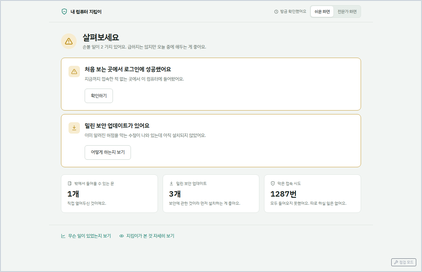
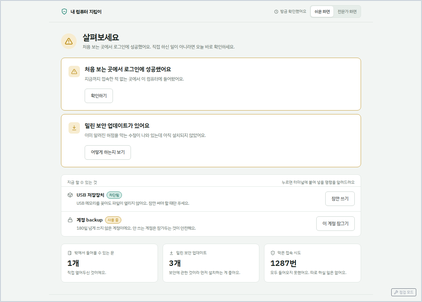
feat(ui): 홈에 '지금 할 수 있는 것' — USB 차단 해제와 계정 잠금을 한 걸음으로
USB 저장장치 해제·재차단과 계정 잠금·되살리기는 전문가 화면에서는 한눈에 보이는데,
쉬운 화면에서는 홈 → 자세히 보기 → 항목 펼치기, 세 걸음을 지나야 나왔다. 자주 쓸 수 있는
조작인데 경로가 가장 길었다. 배치 세 가지를 목업으로 비교해 A안(홈 아래 한 묶음)으로 정했다.

- QuickActions: 상태 + 무엇이 바뀌는지 한 줄 + 조치 버튼. 누르면 터미널에 붙여 넣을 명령과
  왜 그런지를 보여주고 복사한다. 자동 복사가 막히면 직접 끌어 복사하도록 글을 남긴다
- 버튼은 실행하지 않는다. root 권한이 필요하고 지킴이에게는 그 권한이 없다 — 묶음 제목 옆에
  "누르면 터미널에 붙여 넣을 명령을 알려드려요"로 그 사실을 적는다 (원칙 2)
- 줄은 최대 셋. 상태를 못 읽었거나 기준 시각을 모르면 그 줄을 빼고, 빈 줄을 만들지 않는다
- '180일 넘게 안 쓴 계정' 기준은 전문가 화면 계정 패널과 같다. 판정 기준 시각은 화면을 받은
  시각이다 — 그리는 중에 시계를 읽지 않는다(react-hooks/purity)
- plan.md §7 의 "명령어 복사는 홈에서 쓰지 않는다"를 이 결정으로 갱신하고 조건을 적는다
- README 화면 구성에 줄 추가, 갤러리 홈 스크린샷 갱신

Claude-Session: https://claude.ai/code/session_01UZNzB412ewKs2Bica7ortn

diff --git a/frontend/src/plain/QuickActions.jsx b/frontend/src/plain/QuickActions.jsx
@@ -1,0 +1,188 @@
+// 홈에서 바로 할 수 있는 조치. 전문가 화면에만 있던 USB 차단 해제와 계정 잠금을 여기로 올린다.
+//
+// 왜 홈에 두는가: 자세히 보기 → 항목 펼치기를 지나야 나왔다. 자주 쓸 수 있는 조작인데 경로가
+// 가장 길었다 (목업 비교에서 세 걸음 → 한 걸음).
+//
+// 왜 버튼이 바로 실행하지 않는가: 이 조작들은 root 권한이 필요하고, 지킴이는 그 권한을 갖고
+// 있지 않다. 그래서 하는 일은 '터미널에 붙여 넣을 명령을 알려주는 것'뿐이다. 버튼 이름과
+// 설명이 그 사실을 그대로 말한다 (원칙 2: 한 일만 말한다).
+//
+// 줄은 최대 세 개까지만 둔다. 더 늘어나면 홈이 목록이 되고, '이상 없음'인 날의 여백이 사라진다.
+import React, { useState } from 'react';
+import { Icon, Card, Btn } from './ui';
+import { copyText } from './brief';
+
+const UNUSED_DAYS = 180;   // 전문가 화면의 계정 패널과 같은 기준
+const MAX_ROWS = 3;
+
+/** 명령 한 줄 + 왜 그런지 + 복사. 자동 복사가 막히면 직접 끌어 복사하도록 글을 남긴다. */
+function CommandPanel({ cmd, why }) {
+    const [state, setState] = useState('idle');   // idle | ok | fail
+
+    const copy = async () => {
+        const ok = await copyText(cmd);
+        setState(ok ? 'ok' : 'fail');
+        setTimeout(() => setState('idle'), 2500);
+    };
+
+    return (
+        <div className="mt-3 rounded-lg border border-dashed border-calm-line2 bg-calm-bg p-4">
+            <pre className="text-[12.5px] leading-relaxed font-mono whitespace-pre-wrap select-all bg-calm-panel border border-calm-line rounded-md px-3 py-2.5">{cmd}</pre>
+            <div className="text-[13px] text-calm-muted mt-2.5 leading-relaxed" style={{ wordBreak: 'keep-all' }}>{why}</div>
+            <div className="flex items-center gap-2.5 mt-3 flex-wrap">
+                <Btn kind="primary" onClick={copy} className="h-10">
+                    <Icon name="copy" size={15} />
+                    {state === 'ok' ? '복사했어요' : state === 'fail' ? '복사 실패' : '명령 복사하기'}
+                </Btn>
+                <span className="text-[12.5px] text-calm-muted" style={{ wordBreak: 'keep-all' }}>
+                    {state === 'fail'
+                        ? '자동 복사가 막혀 있어요. 위 글을 직접 끌어서 복사해 주세요.'
+                        : '터미널에 붙여 넣고 Enter 를 누르면 적용돼요.'}
+                </span>
+            </div>
+        </div>
+    );
+}
+
+function Row({ icon, title, pill, pillTone, what, actions, openId, setOpenId }) {
+    const toneCls = pillTone === 'warn'
+        ? 'text-calm-warn border-calm-warn bg-calm-warn-soft'
+        : 'text-calm-accent2 border-calm-accent bg-calm-accent-soft';
+    return (
+        <div className="px-5 py-4 border-t border-calm-line first:border-t-0">
+            <div className="flex items-start justify-between gap-4 flex-wrap">
+                <div className="flex items-start gap-3 min-w-[240px] flex-1">
+                    <span className="text-calm-muted mt-0.5 shrink-0"><Icon name={icon} size={19} /></span>
+                    <div className="min-w-0">
+                        <div className="flex items-center gap-2 flex-wrap">
+                            <span className="text-[15.5px] font-semibold">{title}</span>
+                            {pill && <span className={`text-[12px] border rounded-full px-2 py-0.5 whitespace-nowrap ${toneCls}`}>{pill}</span>}
+                        </div>
+                        <div className="text-[13.5px] text-calm-muted mt-1 leading-relaxed" style={{ wordBreak: 'keep-all' }}>{what}</div>
+                    </div>
+                </div>
+                <div className="flex items-center gap-2 flex-wrap shrink-0">
+                    {actions.map((a) => (
+                        <Btn key={a.id} kind={a.primary ? 'outline' : 'ghost'}
+                            aria-expanded={openId === a.id}
+                            onClick={() => setOpenId(openId === a.id ? null : a.id)}>
+                            {a.label}
+                        </Btn>
+                    ))}
+                </div>
+            </div>
+            {actions.filter((a) => a.id === openId).map((a) => (
+                <CommandPanel key={a.id} cmd={a.cmd} why={a.why} />
+            ))}
+        </div>
+    );
+}
+
+/**
+ * 홈의 '지금 할 수 있는 것'.
+ *
+ * host·accounts 를 못 읽었으면 아무것도 그리지 않는다. 빈 줄을 만들어 '할 수 있는 일이 없다'고
+ * 말하는 것보다, 자리 자체를 비우는 편이 덜 거짓말이다.
+ */
+export default function QuickActions({ host, accounts = [], asOf = 0 }) {
+    const [openId, setOpenId] = useState(null);
+    const rows = [];
+    const usb = host?.usb_storage;
+    const cmds = usb?.commands || {};
+
+    if (usb && usb.state !== 'unknown') {
+        const blocked = usb.state === 'blocked';
+        const temporarily = usb.state === 'temporarily_unblocked';
+        const actions = [];
+        if (blocked && cmds.temp_unblock) {
+            actions.push({
+                id: 'usb-temp', primary: true, label: '잠깐 쓰기',
+                cmd: cmds.temp_unblock,
+                why: '이 컴퓨터를 다시 켜면 자동으로 다시 막혀요. 쓰고 나서 바로 막으려면 아래 ‘다시 막기’를 누르세요.',
+            });
+        }
+        if ((temporarily || !blocked) && cmds.reblock) {
+            actions.push({
+                id: 'usb-reblock', primary: true, label: '다시 막기',
+                cmd: cmds.reblock,
+                why: 'USB 저장장치를 지금 바로 다시 막아요. 꽂아둔 USB 가 있으면 먼저 빼세요.',
+            });
+        }
+        if (blocked && cmds.permanent_unblock) {
+            actions.push({
+                id: 'usb-perm', label: '계속 쓰기로 바꾸기',
+                cmd: cmds.permanent_unblock,
+                why: '다음에 컴퓨터를 켜도 USB 가 열려 있어요. 파일을 몰래 빼가거나 넣는 것을 막지 못하게 되니, 꼭 필요할 때만 바꾸세요.',
+            });
+        }
+        if (!blocked && cmds.permanent_block) {
+            actions.push({
+                id: 'usb-set-block', label: '항상 막기로 바꾸기',
+                cmd: cmds.permanent_block,
+                why: '다음에 켤 때부터도 USB 저장장치를 막아요.',
+            });
+        }
+        if (actions.length) {
+            rows.push({
+                key: 'usb', icon: 'box', title: 'USB 저장장치',
+                pill: usb.state_ko, pillTone: blocked ? 'ok' : 'warn',
+                what: blocked
+                    ? 'USB 메모리를 꽂아도 파일이 열리지 않아요. 잠깐 써야 할 때만 푸세요.'
+                    : '지금은 USB 메모리를 꽂으면 파일이 열려요.',
+                actions,
+            });
+        }
+    }
+
+    // 계정: 사람이 손댈 수 있는 것만 (root 는 제외). 안 쓰는 계정이 있으면 그 계정을 먼저 보여준다.
+    //
+    // '지금'은 그릴 때 시계를 읽지 않는다. 렌더 중에 Date.now() 를 읽으면 같은 값을 그려도
+    // 결과가 달라지는 컴포넌트가 된다(react-hooks/purity). 화면을 새로 받은 시각을 기준으로 쓴다 —
+    // 15초마다 갱신되므로 '180일 넘게 안 썼는가' 판정에는 충분하다.
+    const people = (accounts || []).filter((a) => a.uid !== 0 && a.commands);
+    // asOf 가 없으면(아직 한 번도 못 받았으면) 미사용 여부를 말하지 않는다. 기준 시각을 모르는데
+    // "180일 넘게 안 썼다"고 적으면 지어낸 말이 된다.
+    const unused = asOf ? people.find((a) => a.state === 'active' && a.last_login
+        && asOf - new Date(a.last_login).getTime() > UNUSED_DAYS * 86400000) : null;
+    const locked = people.find((a) => a.state === 'locked');
+    const target = unused || locked;
+    if (target) {
+        const isLocked = target.state === 'locked';
+        const actions = isLocked
+            ? [{
+                id: `acct-unlock-${target.name}`, primary: true, label: '다시 쓸 수 있게 하기',
+                cmd: target.commands.unlock,
+                why: `${target.name} 계정으로 다시 로그인할 수 있게 돼요.`,
+            }]
+            : [{
+                id: `acct-lock-${target.name}`, primary: true, label: '이 계정 잠그기',
+                cmd: target.commands.lock,
+                why: `${target.name} 계정으로는 로그인할 수 없게 돼요. 파일은 그대로 남고, 되살릴 수도 있어요.`,
+            }];
+        rows.push({
+            key: 'accounts', icon: 'lock',
+            title: `계정 ${target.name}`,
+            pill: target.state_ko, pillTone: isLocked ? 'ok' : 'warn',
+            what: isLocked
+                ? '지금은 이 계정으로 로그인할 수 없어요. 다시 쓰려면 풀어 주세요.'
+                : `${UNUSED_DAYS}일 넘게 쓰지 않은 계정이에요. 안 쓰는 계정은 잠가두는 것이 안전해요.`,
+            actions,
+        });
+    }
+
+    if (!rows.length) return null;
+
+    return (
+        <Card className="overflow-hidden">
+            <div className="flex items-baseline justify-between gap-3 px-5 pt-4 pb-1 flex-wrap">
+                <span className="text-[13px] text-calm-muted tracking-[0.02em]">지금 할 수 있는 것</span>
+                <span className="text-[12.5px] text-calm-muted" style={{ wordBreak: 'keep-all' }}>
+                    누르면 터미널에 붙여 넣을 명령을 알려드려요
+                </span>
+            </div>
+            {rows.slice(0, MAX_ROWS).map((r) => (
+                <Row key={r.key} {...r} openId={openId} setOpenId={setOpenId} />
+            ))}
+        </Card>
+    );
+}

diff --git a/frontend/src/plain/PlainApp.jsx b/frontend/src/plain/PlainApp.jsx
@@ -34,7 +34,7 @@ export default function PlainApp({ page = 'home', onPage, onMode }) {
     // 할 일 상세·기록은 잠깐 들르는 곳이라 여기서만 들고 있는다.
     const [view, setView] = useState(() => ({ name: page }));
     const [needToken, setNeedToken] = useState(() => !getToken());
-    const [d, setD] = useState({ stats: null, alerts: [], openAlerts: [], alertCount: null, events: [], host: null, exposure: null, blocked: null, monitors: [], accounts: [] });
+    const [d, setD] = useState({ stats: null, alerts: [], openAlerts: [], alertCount: null, events: [], host: null, exposure: null, blocked: null, monitors: [], accounts: [], fetchedAt: 0 });
     const [tick, setTick] = useState(0);
     const [conn, setConn] = useState('loading');   // loading | ok | down
     const alive = useRef(true);
@@ -61,6 +61,9 @@ export default function PlainApp({ page = 'home', onPage, onMode }) {
             host: host ?? p.host, exposure: exposure ?? p.exposure, blocked: blocked ?? p.blocked,
             monitors: monitors ?? p.monitors,
             accounts: accounts?.accounts ?? p.accounts,
+            // 화면을 받은 시각. '180일 넘게 안 쓴 계정' 판정의 기준이다 —
+            // 그리는 중에 시계를 읽지 않기 위해 여기서 한 번만 잡는다.
+            fetchedAt: stats ? Date.now() : p.fetchedAt,
         }));
         setTick((t) => t + 1);
     }, []);
@@ -158,7 +161,8 @@ export default function PlainApp({ page = 'home', onPage, onMode }) {
                 </div>
 
                 {view.name === 'home' && (
-                    <Home status={status} tasks={tasks} facts={facts} onOpenTask={openTask} onGo={go} />
+                    <Home status={status} tasks={tasks} facts={facts} host={d.host} accounts={d.accounts}
+                        asOf={d.fetchedAt} onOpenTask={openTask} onGo={go} />
                 )}
                 {view.name === 'task' && (
                     <TaskDetail task={tasks.find((t) => t.id === view.task.id) || view.task}

diff --git a/frontend/src/plain/Home.jsx b/frontend/src/plain/Home.jsx
@@ -1,5 +1,6 @@
 import React from 'react';
 import { Icon, Card, Btn, StatusHead, FactCard } from './ui';
+import QuickActions from './QuickActions';
 import { TONE, toneOf } from './tokens';
 import { KIND } from './tasks';
 
@@ -42,7 +43,7 @@ function TaskCard({ task, onOpen }) {
     );
 }
 
-export default function Home({ status, tasks, facts, onOpenTask, onGo }) {
+export default function Home({ status, tasks, facts, host, accounts, asOf, onOpenTask, onGo }) {
     const hasTasks = tasks.length > 0;
     return (
         <div className="flex flex-col min-h-full">
@@ -58,7 +59,13 @@ export default function Home({ status, tasks, facts, onOpenTask, onGo }) {
                     </div>
                 )}
 
-                <div className={`grid gap-4 ${hasTasks ? 'mt-6' : 'mt-10'} grid-cols-1 sm:grid-cols-3`}>
+                {/* 할 일(지킴이가 시키는 것)과 안심 정보(읽는 것) 사이에 둔다.
+                    사용자가 스스로 하는 조작이라 성격이 둘 중간이다. */}
+                <div className={hasTasks ? 'mt-6' : 'mt-10'}>
+                    <QuickActions host={host} accounts={accounts} asOf={asOf} />
+                </div>
+
+                <div className={`grid gap-4 mt-6 grid-cols-1 sm:grid-cols-3`}>
                     <FactCard icon="door" label="밖에서 들어올 수 있는 문"
                         value={facts.doors === '—' ? '—' : `${facts.doors}개`} note={facts.doorsNote} />
                     <FactCard icon="update" label="밀린 보안 업데이트"

diff --git a/docs/ux/plan.md b/docs/ux/plan.md
@@ -169,7 +169,28 @@
 | 컴퓨터 재시작 등이 필요 | 보안 업데이트 적용 | 버튼 + "이만큼 걸려요" |
 | 사람이 판단해야 함 | 낯선 곳에서 로그인 성공 | 고치는 버튼은 없다. 본인 여부만 묻고, 아니라면 순서대로 할 일을 안내 |
 
-명령어 복사는 **자세히 보기 안에만** 남긴다. 홈에서는 쓰지 않는다.
+명령어 복사는 기본적으로 **자세히 보기 안에만** 남긴다.
+
+### 예외: 홈의 '지금 할 수 있는 것' (2026-09-16 결정)
+
+USB 저장장치 차단 해제와 계정 잠금은 자주 쓸 수 있는데도 경로가 가장 길었다 —
+홈 → 자세히 보기 → 항목 펼치기, 세 걸음이었다. 배치 세 가지를 목업으로 비교해
+홈 아래 한 묶음으로 올리기로 정했다(세 걸음 → 한 걸음).
+
+그래서 홈에서도 명령어 복사를 쓴다. 대신 조건을 둔다.
+
+- **줄은 최대 셋.** 더 늘어나면 홈이 목록이 되고, '이상 없음'인 날의 여백이 사라진다.
+- **버튼이 하는 일을 그대로 말한다.** 이 조작들은 root 권한이 필요하고 지킴이는 그 권한이 없다.
+  그래서 버튼은 실행하지 않고 명령을 보여준다 — 묶음 제목 옆에 "누르면 터미널에 붙여 넣을
+  명령을 알려드려요"라고 적는다.
+- **누르기 전에 무엇이 바뀌는지 한 줄.** 이것이 홈에 올리는 대가다. 조작 수를 줄이는 것보다
+  결과를 먼저 알려주는 것이 이 화면에서는 더 중요하다.
+- **모르면 그리지 않는다.** 상태를 못 읽었거나 기준 시각을 모르면 그 줄을 빼고, 빈 줄로
+  '할 수 있는 일이 없다'고 말하지 않는다.
+
+눌러서 바로 실행하는 방식은 아직 하지 않는다. sudoers 에 `modprobe`·`usermod` 를 더해야
+하고, 그만큼 서비스 계정의 권한이 커진다. 권한 조치처럼 대상을 지킴이가 직접 다시 스캔해
+정하는 형태라면 그때 다시 본다.
 
 ## 8. 목업으로 만들 화면
 

diff --git a/README.md b/README.md
@@ -195,6 +195,7 @@ sudo secdash-<버전>/deploy/update.sh --deps
 | IP 차단 | fail2ban 의 실제 차단 목록(sshd, recidive), 수동 차단/해제, 미연동 시 차단 권고 명령 | 관리자 IP 가 차단되면 해제 |
 | 라이브 피드 | 원시 이벤트(한국어 + 원문). 시뮬레이션은 TEST DATA 표시 | 알림의 근거를 찾을 때 |
 | 점검 모드 (헤더) | 시간과 메모를 정하면 그동안의 설정·패키지·영속화 알림은 자동 확인, 침입 신호는 그대로 | 계획 작업 전에 켜기 |
+| 지금 할 수 있는 것 (쉬운 화면 홈) | USB 저장장치 차단 상태와 잠깐 쓰기/다시 막기, 안 쓰는 계정 잠금·되살리기. 누르면 터미널에 붙여 넣을 명령과 무엇이 바뀌는지를 보여준다 (최대 세 줄) | USB 를 잠깐 쓸 때, 안 쓰는 계정을 잠글 때 |
 
 ### 화면 예시
 
